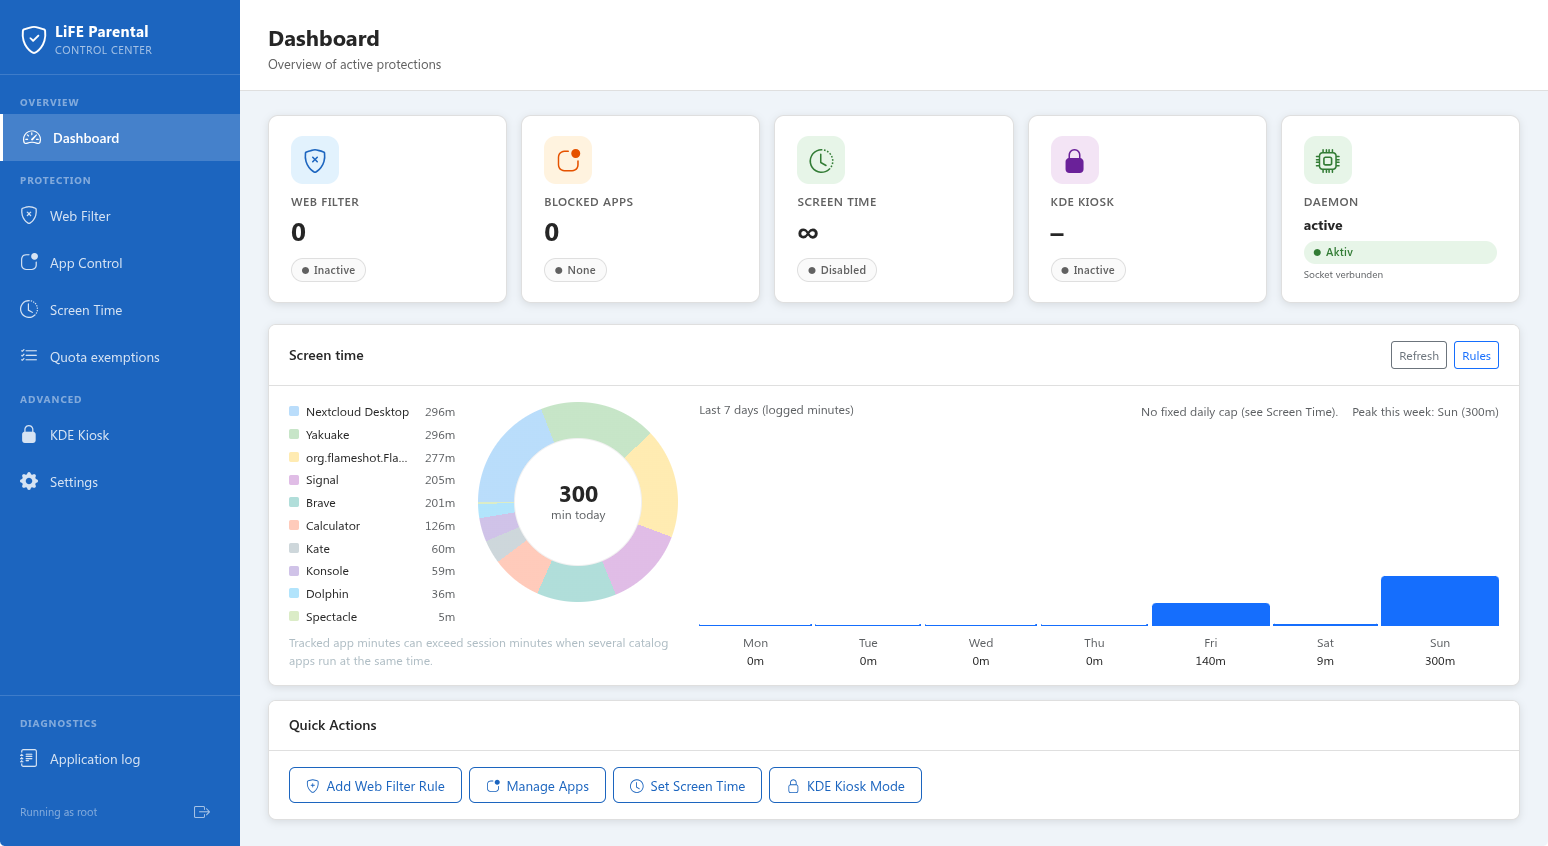
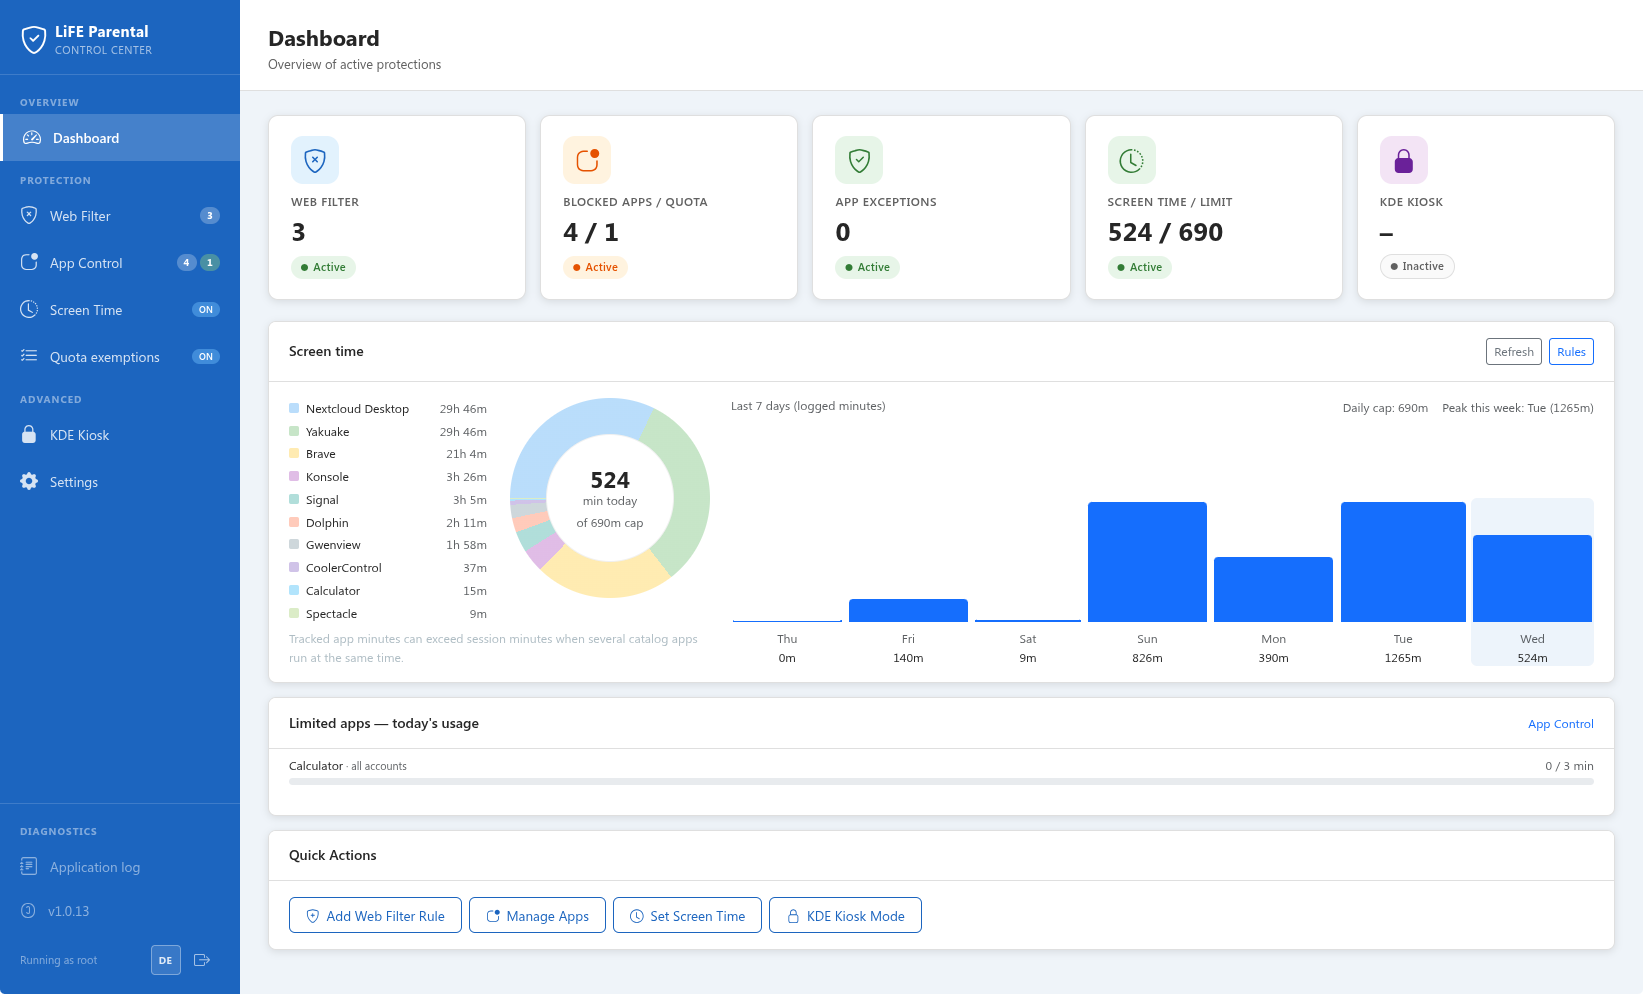
screenshots updated

diff --git a/README.md b/README.md
@@ -118,7 +118,7 @@ In the `App Control` module you can see the page for app quotas.
 ![App-Control](images/app-control.png)
 
 In the Dashboard there is an alternative overview.
-![Dashboard (variant)](images/dashboard1.png)
+![Dashboard (variant)](images/dashboard.png)
 
 In the `KDE Kiosk` module you can configure kiosk profiles.
 ![KDE Kiosk Profiles](images/kiosk-profiles.png)
